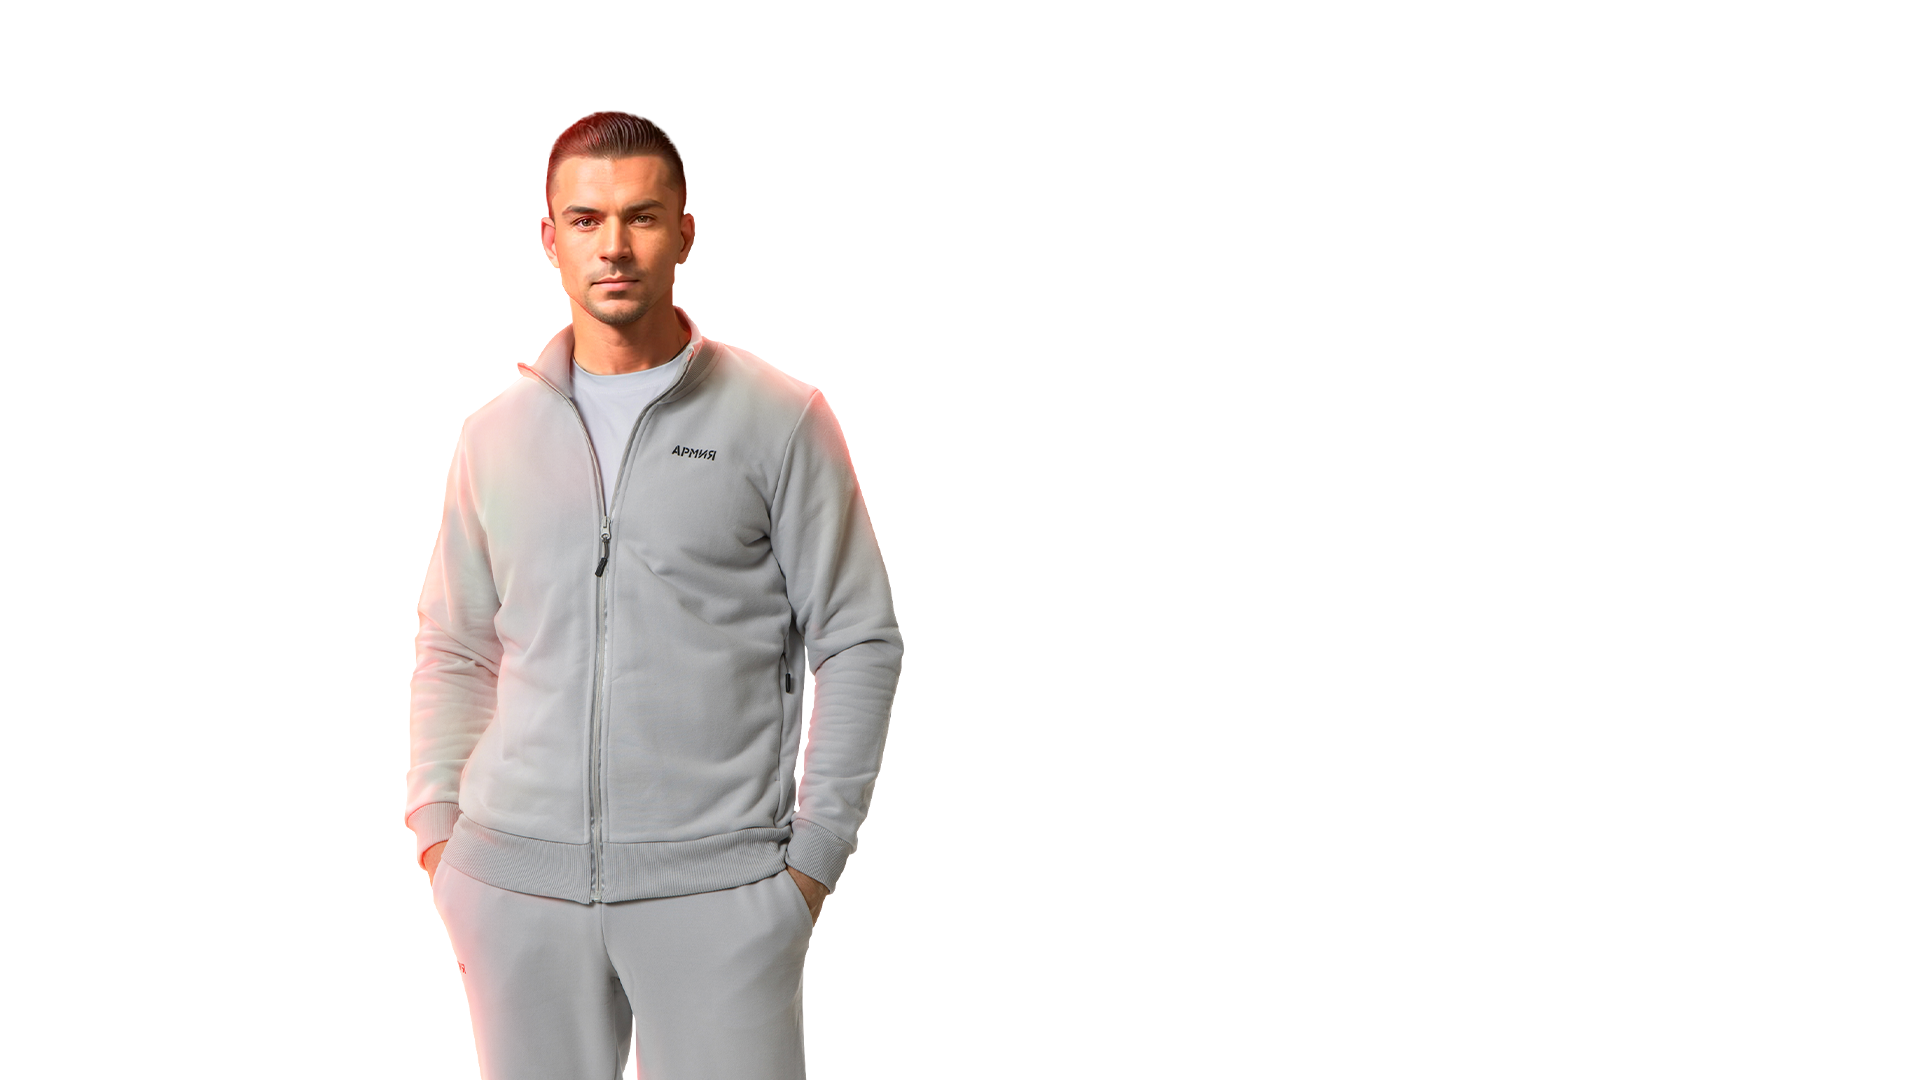
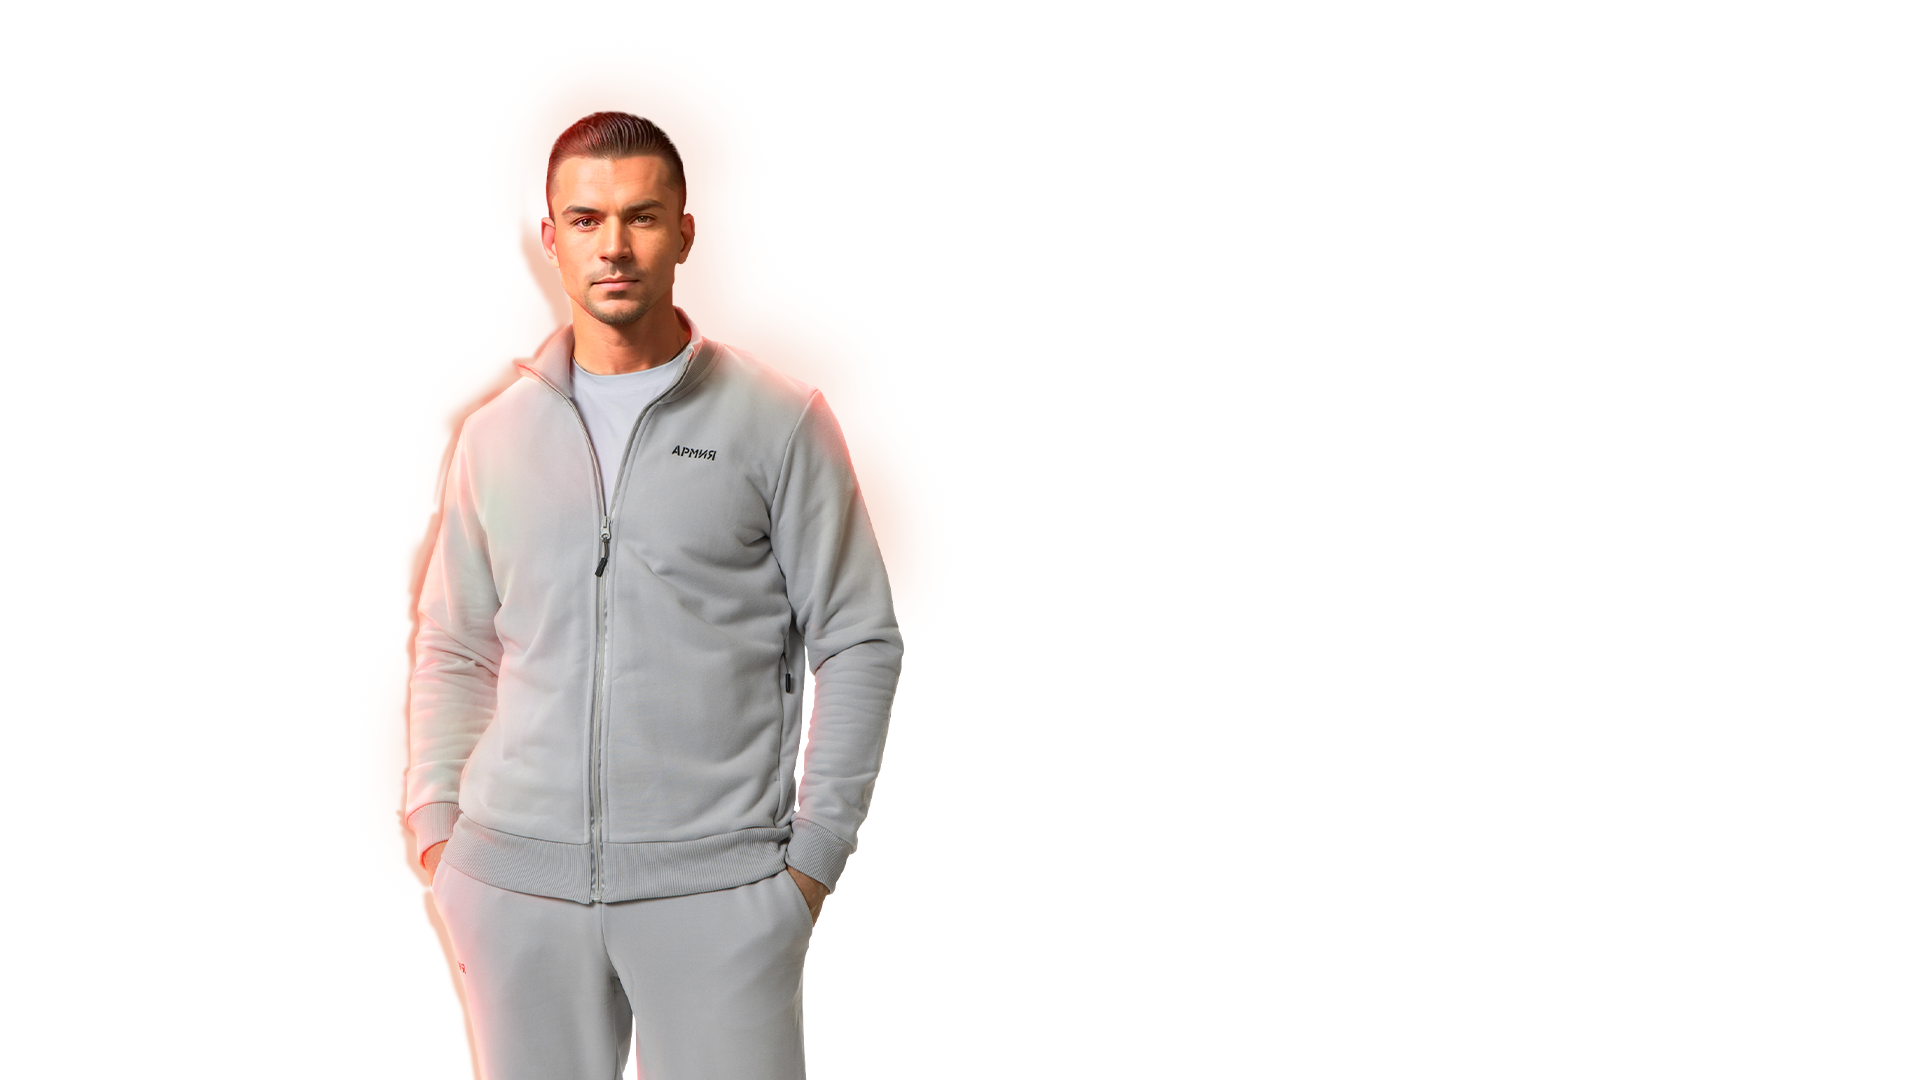
Change bg

diff --git a/puplic/css/main.min.css b/puplic/css/main.min.css
@@ -1,1 +1,1 @@
-@-webkit-keyframes fadeOut{0%{opacity:1}to{opacity:0}}@keyframes fadeOut{0%{opacity:1}to{opacity:0}}*{margin:0;padding:0;-webkit-box-sizing:border-box;box-sizing:border-box}body{width:100vw;height:100vh}.owl-carousel,.owl-carousel .owl-item{-webkit-tap-highlight-color:transparent;position:relative}.owl-carousel{display:none;width:100%;z-index:1}.owl-carousel .owl-stage{position:relative;-ms-touch-action:pan-Y;touch-action:manipulation;-moz-backface-visibility:hidden}.owl-carousel .owl-stage:after{content:".";display:block;clear:both;visibility:hidden;line-height:0;height:0}.owl-carousel .owl-stage-outer{position:relative;overflow:hidden;-webkit-transform:translate3d(0,0,0)}.owl-carousel .owl-item,.owl-carousel .owl-wrapper{-moz-backface-visibility:hidden;-ms-backface-visibility:hidden;-webkit-transform:translate3d(0,0,0);-moz-transform:translate3d(0,0,0);-ms-transform:translate3d(0,0,0)}.owl-carousel .owl-wrapper{-webkit-backface-visibility:hidden}.owl-carousel .owl-item{min-height:1px;float:left;-webkit-backface-visibility:hidden;-webkit-touch-callout:none}.owl-carousel .owl-item img{display:block;width:100%}.owl-carousel .owl-dots.disabled,.owl-carousel .owl-nav.disabled{display:none}.no-js .owl-carousel,.owl-carousel.owl-loaded{display:block}.owl-carousel .owl-dot,.owl-carousel .owl-nav .owl-next,.owl-carousel .owl-nav .owl-prev{cursor:pointer;-webkit-user-select:none;-moz-user-select:none;-ms-user-select:none;user-select:none}.owl-carousel .owl-nav button.owl-next,.owl-carousel .owl-nav button.owl-prev,.owl-carousel button.owl-dot{background:0 0;color:inherit;border:0;padding:0!important;font:inherit}.owl-carousel.owl-loading{opacity:0;display:block}.owl-carousel.owl-hidden{opacity:0}.owl-carousel.owl-refresh .owl-item{visibility:hidden}.owl-carousel.owl-drag .owl-item{-ms-touch-action:pan-y;touch-action:pan-y;-webkit-user-select:none;-moz-user-select:none;-ms-user-select:none;user-select:none}.owl-carousel.owl-grab{cursor:move;cursor:-webkit-grab;cursor:grab}.owl-carousel.owl-rtl{direction:rtl}.owl-carousel.owl-rtl .owl-item{float:right}.owl-carousel .animated{-webkit-animation-duration:1s;animation-duration:1s;-webkit-animation-fill-mode:both;animation-fill-mode:both}.owl-carousel .owl-animated-in{z-index:0}.owl-carousel .owl-animated-out{z-index:1}.owl-carousel .fadeOut{-webkit-animation-name:fadeOut;animation-name:fadeOut}.owl-height{-webkit-transition:height .5s ease-in-out;-o-transition:height .5s ease-in-out;transition:height .5s ease-in-out}.owl-carousel .owl-item .owl-lazy{opacity:0;-webkit-transition:opacity .4s ease;-o-transition:opacity .4s ease;transition:opacity .4s ease}.owl-carousel .owl-item .owl-lazy:not([src]),.owl-carousel .owl-item .owl-lazy[src^=""]{max-height:0}.owl-carousel .owl-item img.owl-lazy{-webkit-transform-style:preserve-3d;transform-style:preserve-3d}.owl-carousel .owl-video-wrapper{position:relative;height:100%;background:#000}.owl-carousel .owl-video-play-icon{position:absolute;height:80px;width:80px;left:50%;top:50%;margin-left:-40px;margin-top:-40px;background:url(owl.video.play.png) no-repeat;cursor:pointer;z-index:1;-webkit-backface-visibility:hidden;-webkit-transition:-webkit-transform .1s ease;-o-transition:transform .1s ease;transition:transform .1s ease;transition:transform .1s ease,-webkit-transform .1s ease}.owl-carousel .owl-video-play-icon:hover{-ms-transform:scale(1.3,1.3);-webkit-transform:scale(1.3,1.3);transform:scale(1.3,1.3)}.owl-carousel .owl-video-playing .owl-video-play-icon,.owl-carousel .owl-video-playing .owl-video-tn{display:none}.owl-carousel .owl-video-tn{opacity:0;height:100%;background-position:center center;background-repeat:no-repeat;background-size:contain;-webkit-transition:opacity .4s ease;-o-transition:opacity .4s ease;transition:opacity .4s ease}.owl-carousel .owl-video-frame{position:relative;z-index:1;height:100%;width:100%}#slider,#slider__item{width:100vw;height:100vh}#slider{background:url(../img/background2.jpg) no-repeat 0 0/100%;position:relative;overflow:hidden}#slider__item{display:block}#slider__item img,#slider__item picture{display:block;width:100%;max-width:100%}#slider .owl-nav{position:absolute;top:50%;left:0;width:100%}#slider .owl-nav .owl-next,#slider .owl-nav .owl-prev{position:absolute;top:0;width:40px;height:80px;margin-top:-40px;background:#fff;cursor:pointer;font-size:0;z-index:99}#slider .owl-nav .owl-prev{background:url(../img/left.png) center/100%;left:20px}#slider .owl-nav .owl-next{background:url(../img/right.png) center/100%;right:20px}@supports (-webkit-appearance:none){.owl-carousel .owl-video-play-icon{background:url(owl.video.play.webp) no-repeat}#slider{background-image:url(../img/background2.webp)}#slider .owl-nav .owl-prev{background-image:url(../img/left.webp)}#slider .owl-nav .owl-next{background-image:url(../img/right.webp)}}@media screen and (min-width:1600px){#slider{background-size:cover}}
+@-webkit-keyframes fadeOut{0%{opacity:1}to{opacity:0}}@keyframes fadeOut{0%{opacity:1}to{opacity:0}}*{margin:0;padding:0;-webkit-box-sizing:border-box;box-sizing:border-box;cursor:none}body{width:100vw;height:100vh}.owl-carousel,.owl-carousel .owl-item{-webkit-tap-highlight-color:transparent;position:relative}.owl-carousel{display:none;width:100%;z-index:1}.owl-carousel .owl-stage{position:relative;-ms-touch-action:pan-Y;touch-action:manipulation;-moz-backface-visibility:hidden}.owl-carousel .owl-stage:after{content:".";display:block;clear:both;visibility:hidden;line-height:0;height:0}.owl-carousel .owl-stage-outer{position:relative;overflow:hidden;-webkit-transform:translate3d(0,0,0)}.owl-carousel .owl-item,.owl-carousel .owl-wrapper{-moz-backface-visibility:hidden;-ms-backface-visibility:hidden;-webkit-transform:translate3d(0,0,0);-moz-transform:translate3d(0,0,0);-ms-transform:translate3d(0,0,0)}.owl-carousel .owl-wrapper{-webkit-backface-visibility:hidden}.owl-carousel .owl-item{min-height:1px;float:left;-webkit-backface-visibility:hidden;-webkit-touch-callout:none}.owl-carousel .owl-item img{display:block;width:100%}.owl-carousel .owl-dots.disabled,.owl-carousel .owl-nav.disabled{display:none}.no-js .owl-carousel,.owl-carousel.owl-loaded{display:block}.owl-carousel .owl-dot,.owl-carousel .owl-nav .owl-next,.owl-carousel .owl-nav .owl-prev{cursor:pointer;-webkit-user-select:none;-moz-user-select:none;-ms-user-select:none;user-select:none}.owl-carousel .owl-nav button.owl-next,.owl-carousel .owl-nav button.owl-prev,.owl-carousel button.owl-dot{background:0 0;color:inherit;border:0;padding:0!important;font:inherit}.owl-carousel.owl-loading{opacity:0;display:block}.owl-carousel.owl-hidden{opacity:0}.owl-carousel.owl-refresh .owl-item{visibility:hidden}.owl-carousel.owl-drag .owl-item{-ms-touch-action:pan-y;touch-action:pan-y;-webkit-user-select:none;-moz-user-select:none;-ms-user-select:none;user-select:none}.owl-carousel.owl-grab{cursor:move;cursor:-webkit-grab;cursor:grab}.owl-carousel.owl-rtl{direction:rtl}.owl-carousel.owl-rtl .owl-item{float:right}.owl-carousel .animated{-webkit-animation-duration:1s;animation-duration:1s;-webkit-animation-fill-mode:both;animation-fill-mode:both}.owl-carousel .owl-animated-in{z-index:0}.owl-carousel .owl-animated-out{z-index:1}.owl-carousel .fadeOut{-webkit-animation-name:fadeOut;animation-name:fadeOut}.owl-height{-webkit-transition:height .5s ease-in-out;-o-transition:height .5s ease-in-out;transition:height .5s ease-in-out}.owl-carousel .owl-item .owl-lazy{opacity:0;-webkit-transition:opacity .4s ease;-o-transition:opacity .4s ease;transition:opacity .4s ease}.owl-carousel .owl-item .owl-lazy:not([src]),.owl-carousel .owl-item .owl-lazy[src^=""]{max-height:0}.owl-carousel .owl-item img.owl-lazy{-webkit-transform-style:preserve-3d;transform-style:preserve-3d}.owl-carousel .owl-video-wrapper{position:relative;height:100%;background:#000}.owl-carousel .owl-video-play-icon{position:absolute;height:80px;width:80px;left:50%;top:50%;margin-left:-40px;margin-top:-40px;background:url(owl.video.play.png) no-repeat;cursor:pointer;z-index:1;-webkit-backface-visibility:hidden;-webkit-transition:-webkit-transform .1s ease;-o-transition:transform .1s ease;transition:transform .1s ease;transition:transform .1s ease,-webkit-transform .1s ease}.owl-carousel .owl-video-play-icon:hover{-ms-transform:scale(1.3,1.3);-webkit-transform:scale(1.3,1.3);transform:scale(1.3,1.3)}.owl-carousel .owl-video-playing .owl-video-play-icon,.owl-carousel .owl-video-playing .owl-video-tn{display:none}.owl-carousel .owl-video-tn{opacity:0;height:100%;background-position:center center;background-repeat:no-repeat;background-size:contain;-webkit-transition:opacity .4s ease;-o-transition:opacity .4s ease;transition:opacity .4s ease}.owl-carousel .owl-video-frame{position:relative;z-index:1;height:100%;width:100%}#slider,#slider__item{width:100vw;height:100vh}#slider{background:url(../img/background3.jpg) no-repeat 0 0/100%;position:relative;overflow:hidden}#slider__item{display:block}#slider__item img,#slider__item picture{display:block;width:100%;max-width:100%}#slider .owl-nav{position:absolute;top:50%;left:0;width:100%}#slider .owl-nav .owl-next,#slider .owl-nav .owl-prev{position:absolute;top:0;width:40px;height:80px;margin-top:-40px;background:#fff;cursor:pointer;font-size:0;z-index:99}#slider .owl-nav .owl-prev{background:url(../img/left.png) center/100%;left:20px}#slider .owl-nav .owl-next{background:url(../img/right.png) center/100%;right:20px}@supports (-webkit-appearance:none){.owl-carousel .owl-video-play-icon{background:url(owl.video.play.webp) no-repeat}#slider{background-image:url(../img/background3.webp)}#slider .owl-nav .owl-prev{background-image:url(../img/left.webp)}#slider .owl-nav .owl-next{background-image:url(../img/right.webp)}}@media screen and (min-width:1600px){#slider{background-size:cover}}

diff --git a/puplic/css/main.css b/puplic/css/main.css
@@ -3,6 +3,7 @@
   padding: 0;
   -webkit-box-sizing: border-box;
   box-sizing: border-box;
+  cursor: none;
 }
 
 .no-js .owl-carousel {
@@ -260,7 +261,7 @@ body {
 }
 
 #slider {
-  background: url(../img/background2.jpg) no-repeat 0 0/100%;
+  background: url(../img/background3.jpg) no-repeat 0 0/100%;
   position: relative;
   width: 100vw;
   height: 100vh;
@@ -321,7 +322,7 @@ body {
   }
 
   #slider {
-    background-image: url(../img/background2.webp);
+    background-image: url(../img/background3.webp);
   }
 
   #slider .owl-nav .owl-prev {

diff --git a/src/sass/blocks/ustyle.scss b/src/sass/blocks/ustyle.scss
@@ -2,7 +2,7 @@
     position: relative;
     width: 100vw;
     height: 100vh;
-    background-image: url(../img/background2.jpg);
+    background-image: url(../img/background3.jpg);
     background-repeat: no-repeat;
     background-size: 100%;
     overflow: hidden;

diff --git a/src/sass/main.scss b/src/sass/main.scss
@@ -2,6 +2,7 @@
     margin: 0;
     padding: 0;
     box-sizing: border-box;
+    cursor: none;
 }
 
 .no-js .owl-carousel {
